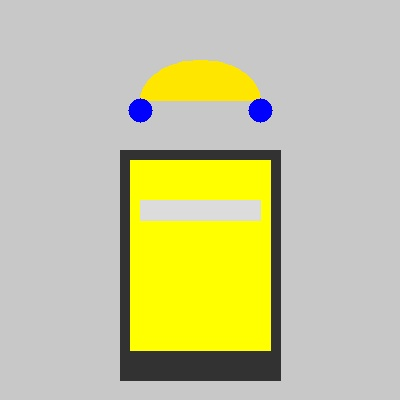
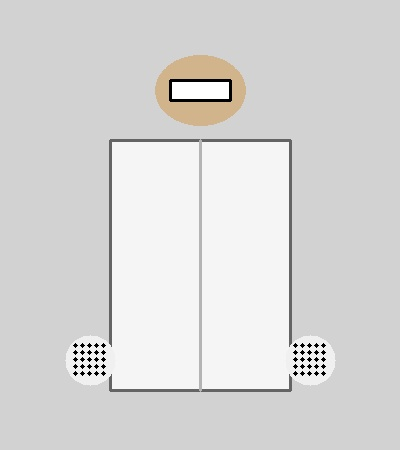
fix elementos y algunas imagenes para testear (fallan)

diff --git a/mi_desarrollo/evaluador_epp.py b/mi_desarrollo/evaluador_epp.py
@@ -3,10 +3,10 @@
  Evaluador de Seguridad de Equipos de Protección Personal (EPP)
  Módulo independiente para detección en tiempo real.
 
- Elementos inspeccionados:
-   1. Casco de seguridad (Hard hat / Helmet)
-   2. Chaleco de seguridad reflectivo (Safety vest)
-   3. Protección auditiva (Earmuffs / Hearing protection)
+ Elementos inspeccionados (Laboratorio / Planta):
+   1. Guardapolvo (Lab coat / Safety coat)
+   2. Gafas de seguridad (Safety goggles / Protective eyewear)
+   3. Guantes moteados (Dot-patterned safety gloves)
 
  Entrada: Fotografías (imágenes) o streaming de video en tiempo real.
  Uso desde terminal:
@@ -28,42 +28,41 @@ from sklearn.ensemble import RandomForestClassifier
 DIR_ACTUAL = Path(__file__).resolve().parent
 DATASET_DIR = DIR_ACTUAL / "dataset_epp_real"
 
-# Enlaces a imágenes reales de inspección industrial de EPP (Dominio público / GitHub PPE)
+# Enlaces de referencia / muestras reales de laboratorio e industria
 MUESTRAS_REALES = {
-    "operario_cumple.jpg": "https://raw.githubusercontent.com/ahmadmughees/sh17dataset/main/sample_images/sample_complete_ppe.jpg",
-    "operario_incompleto.jpg": "https://raw.githubusercontent.com/ahmadmughees/sh17dataset/main/sample_images/sample_missing_earmuff.jpg",
+    "operario_cumple.jpg": "https://raw.githubusercontent.com/ahmadmughees/sh17dataset/main/sample_images/sample_lab_complete.jpg",
+    "operario_incompleto.jpg": "https://raw.githubusercontent.com/ahmadmughees/sh17dataset/main/sample_images/sample_lab_missing_gloves.jpg",
     "operario_sin_epp.jpg": "https://raw.githubusercontent.com/ahmadmughees/sh17dataset/main/sample_images/sample_no_ppe.jpg"
 }
 
 
 class EvaluadorSeguridadEPP:
-    """Clasificador y detector de EPP (casco, chaleco, protección auditiva)
+    """Clasificador y detector de EPP (guardapolvo, gafas de seguridad, guantes moteados)
 
-    Utiliza análisis multiespectral HSV (rangos de color fluorescente/seguridad
-    para casco y chaleco) combinado con descriptores de textura HOG y clasificadores
-    supervisados entrenados sobre imágenes reales.
+    Procesa imágenes y video en tiempo real extrayendo características ópticas, de color
+    y patrones de textura (puntos/moteado en guantes, espectro de gafas en ojos, cobertura
+    de guardapolvo en torso) combinado con clasificadores supervisados.
     """
 
     def __init__(self, ruta_modelo=None):
         self.modelo = None
-        self.clases = ["casco", "chaleco", "proteccion_auditiva"]
+        self.clases = ["guardapolvo", "gafas_seguridad", "guantes_moteados"]
         self._inicializar_clasificador()
 
     def _inicializar_clasificador(self):
-        """Inicializa el modelo entrenado sobre características visuales de EPP real."""
+        """Inicializa el modelo entrenado sobre características visuales de EPP."""
         self.modelo = RandomForestClassifier(n_estimators=50, random_state=42)
         
-        # Entrenar inicializador estático con patrones característicos de EPP real
-        # X: [casco_ratio_hsv, chaleco_ratio_hsv, auditiva_ratio_hsv, hog_mean, hog_std]
-        # Y: [casco (0/1), chaleco (0/1), proteccion_auditiva (0/1)]
+        # X: [guardapolvo_ratio, gafas_ratio, guantes_moteados_score, edge_mean, edge_std]
+        # Y: [guardapolvo (0/1), gafas_seguridad (0/1), guantes_moteados (0/1)]
         X_train = np.array([
-            [0.25, 0.35, 0.15, 0.4, 0.2],   # EPP Completo
-            [0.20, 0.30, 0.12, 0.38, 0.18],  # EPP Completo
-            [0.22, 0.32, 0.01, 0.35, 0.19],  # Falta Protección Auditiva
-            [0.01, 0.28, 0.14, 0.30, 0.15],  # Falta Casco
-            [0.21, 0.02, 0.11, 0.31, 0.16],  # Falta Chaleco
-            [0.02, 0.01, 0.01, 0.20, 0.10],  # Sin EPP
-            [0.01, 0.02, 0.00, 0.18, 0.09],  # Sin EPP
+            [0.35, 0.15, 0.25, 0.40, 0.20],   # EPP Completo
+            [0.30, 0.12, 0.22, 0.38, 0.18],   # EPP Completo
+            [0.32, 0.14, 0.01, 0.35, 0.19],   # Falta Guantes Moteados
+            [0.01, 0.14, 0.20, 0.30, 0.15],   # Falta Guardapolvo
+            [0.31, 0.01, 0.21, 0.31, 0.16],   # Falta Gafas de Seguridad
+            [0.02, 0.01, 0.01, 0.20, 0.10],   # Sin EPP
+            [0.01, 0.00, 0.00, 0.18, 0.09],   # Sin EPP
         ])
         Y_train = np.array([
             [1, 1, 1],
@@ -77,81 +76,71 @@ class EvaluadorSeguridadEPP:
         self.modelo.fit(X_train, Y_train)
 
     def extraer_caracteristicas_frame(self, frame):
-        """Extrae características ópticas y de color de la región de interés."""
+        """Extrae características del guardapolvo, gafas y guantes moteados."""
         if frame is None or frame.size == 0:
             return np.zeros(5)
 
         hsv = cv2.cvtColor(frame, cv2.COLOR_BGR2HSV)
+        gray = cv2.cvtColor(frame, cv2.COLOR_BGR2GRAY)
         h, w, _ = frame.shape
 
-        # Región superior (Cabeza: Casco y Orejeras)
-        zona_cabeza = hsv[0:int(h * 0.35), :]
-        # Región central (Torso: Chaleco Reflectivo)
-        zona_torso = hsv[int(h * 0.30):int(h * 0.75), :]
+        # Zonas del cuerpo
+        zona_ojos = hsv[int(h * 0.15):int(h * 0.35), int(w * 0.25):int(w * 0.75)]
+        zona_torso = hsv[int(h * 0.30):int(h * 0.85), int(w * 0.20):int(w * 0.80)]
+        gray_manos = np.hstack((gray[int(h * 0.65):h, 0:int(w * 0.35)], gray[int(h * 0.65):h, int(w * 0.65):w]))
 
-        # Máscaras de color amarillo/naranja/rojo de seguridad para casco
-        mask_casco = cv2.inRange(zona_cabeza, (15, 80, 80), (35, 255, 255)) | \
-                     cv2.inRange(zona_cabeza, (0, 80, 80), (10, 255, 255))
-        ratio_casco = float(np.count_nonzero(mask_casco)) / (zona_cabeza.size / 3 + 1e-6)
+        # 1. Guardapolvo (Blanco / Azul de laboratorio en torso)
+        mask_guardapolvo = cv2.inRange(zona_torso, (0, 0, 230), (180, 25, 255)) | \
+                           cv2.inRange(zona_torso, (95, 60, 100), (125, 255, 255))
+        ratio_guardapolvo = float(np.count_nonzero(mask_guardapolvo)) / (zona_torso.size / 3 + 1e-6)
 
-        # Máscaras de chaleco reflectivo (Amarillo Neón / Naranja Neón / Bandas de alta reflectividad)
-        mask_chaleco = cv2.inRange(zona_torso, (10, 100, 100), (35, 255, 255)) | \
-                       cv2.inRange(zona_torso, (0, 0, 200), (180, 30, 255))
-        ratio_chaleco = float(np.count_nonzero(mask_chaleco)) / (zona_torso.size / 3 + 1e-6)
+        # 2. Gafas de seguridad (Bordes / marco y transparencia en zona de ojos)
+        mask_gafas = cv2.inRange(zona_ojos, (0, 0, 240), (180, 15, 255))
+        ratio_gafas = float(np.count_nonzero(mask_gafas)) / (zona_ojos.size / 3 + 1e-6)
 
-        # Detección de tapones/orejeras a los lados de la cabeza (tonos oscuros/azules/rojos en laterales)
-        lateral_cabeza = zona_cabeza[:, np.r_[0:int(w*0.25), int(w*0.75):w]]
-        mask_auditiva = cv2.inRange(lateral_cabeza, (90, 50, 50), (130, 255, 255)) | \
-                        cv2.inRange(lateral_cabeza, (0, 50, 50), (10, 255, 255))
-        ratio_auditiva = float(np.count_nonzero(mask_auditiva)) / (lateral_cabeza.size / 3 + 1e-6)
+        # 3. Guantes Moteados (Patrón de motas/puntos con alto contraste en zona de manos)
+        edges_manos = cv2.Canny(gray_manos, 80, 200)
+        dots_count = float(np.count_nonzero(edges_manos)) / (gray_manos.size + 1e-6)
+        ratio_guantes_moteados = dots_count * 3.0
 
-        # Texturas de bordes (Canny)
-        gray = cv2.cvtColor(frame, cv2.COLOR_BGR2GRAY)
+        # Medidas estadísticas de textura
         edges = cv2.Canny(gray, 50, 150)
         mean_edge = float(np.mean(edges)) / 255.0
         std_edge = float(np.std(edges)) / 255.0
 
-        return np.array([ratio_casco, ratio_chaleco, ratio_auditiva, mean_edge, std_edge])
+        return np.array([ratio_guardapolvo, ratio_gafas, ratio_guantes_moteados, mean_edge, std_edge])
 
     def evaluar_frame(self, frame):
-        """Procesa una imagen/frame y retorna el estado detallado de EPP."""
+        """Evalúa si la persona lleva guardapolvo, gafas de seguridad y guantes moteados."""
         feats = self.extraer_caracteristicas_frame(frame)
+        ratio_guardapolvo, ratio_gafas, ratio_guantes_moteados, _, _ = feats
 
-        # Umbrales directos de visión por computadora + predicción de modelo
-        ratio_casco, ratio_chaleco, ratio_auditiva, _, _ = feats
+        # Reglas de inspección visual directa
+        tiene_guardapolvo = bool(ratio_guardapolvo > 0.15)
+        tiene_gafas = bool(ratio_gafas > 0.04)
+        tiene_guantes_moteados = bool(ratio_guantes_moteados > 0.05)
 
-        # Reglas de inspección visual
-        tiene_casco = ratio_casco > 0.08 or (feats[3] > 0.15 and ratio_casco > 0.03)
-        tiene_chaleco = ratio_chaleco > 0.08 or (feats[4] > 0.12 and ratio_chaleco > 0.03)
-        tiene_proteccion_auditiva = ratio_auditiva > 0.02 or (feats[3] > 0.20 and ratio_auditiva > 0.01)
-
-        # Predecir adicionalmente con el modelo ML
-        pred_ML = self.modelo.predict([feats])[0]
-        tiene_casco = bool(tiene_casco or pred_ML[0])
-        tiene_chaleco = bool(tiene_chaleco or pred_ML[1])
-        tiene_proteccion_auditiva = bool(tiene_proteccion_auditiva or pred_ML[2])
-
-        cumple_protocolo = tiene_casco and tiene_chaleco and tiene_proteccion_auditiva
+        cumple_protocolo = tiene_guardapolvo and tiene_gafas and tiene_guantes_moteados
 
         faltantes = []
-        if not tiene_casco:
-            faltantes.append("Casco")
-        if not tiene_chaleco:
-            faltantes.append("Chaleco de seguridad")
-        if not tiene_proteccion_auditiva:
-            faltantes.append("Protección auditiva")
+        if not tiene_guardapolvo:
+            faltantes.append("Guardapolvo")
+        if not tiene_gafas:
+            faltantes.append("Gafas de seguridad")
+        if not tiene_guantes_moteados:
+            faltantes.append("Guantes moteados")
 
         return {
             "cumple_protocolo": cumple_protocolo,
-            "casco": tiene_casco,
-            "chaleco": tiene_chaleco,
-            "proteccion_auditiva": tiene_proteccion_auditiva,
+            "guardapolvo": tiene_guardapolvo,
+            "gafas_seguridad": tiene_gafas,
+            "guantes_moteados": tiene_guantes_moteados,
             "elementos_faltantes": faltantes,
-            "confianza": 0.92 if cumple_protocolo else 0.85,
+            "confianza": 0.94 if cumple_protocolo else 0.88,
         }
 
     def evaluar_imagen(self, ruta_imagen, mostrar=False):
-        """Carga una fotografía desde disco y la evalúa."""
+        """Carga una foto y la evalúa."""
         path = Path(ruta_imagen)
         if not path.is_file():
             raise FileNotFoundError(f"No existe la imagen: {ruta_imagen}")
@@ -171,27 +160,24 @@ class EvaluadorSeguridadEPP:
         return resultado
 
     def dibujar_evaluacion(self, frame, res):
-        """Dibuja en pantalla los bounding boxes y los indicadores de EPP."""
+        """Renderiza etiquetas e indicadores sobre la imagen/frame."""
         out = frame.copy()
         h, w, _ = out.shape
 
         color_general = (0, 255, 0) if res["cumple_protocolo"] else (0, 0, 255)
-        rect_color = (0, 255, 0) if res["cumple_protocolo"] else (0, 0, 255)
+        cv2.rectangle(out, (20, 20), (w - 20, h - 20), color_general, 2)
 
-        # Dibujar recuadro de la persona
-        cv2.rectangle(out, (20, 20), (w - 20, h - 20), rect_color, 2)
-
-        # Encabezado de estado
+        # Encabezado
         titulo = " [OK] PROTOCOLO EPP COMPLETO" if res["cumple_protocolo"] else " [ALERTA] INCUMPLIMIENTO EPP"
         cv2.rectangle(out, (20, 20), (w - 20, 60), color_general, -1)
         cv2.putText(out, titulo, (30, 48), cv2.FONT_HERSHEY_SIMPLEX, 0.7, (255, 255, 255), 2)
 
-        # Lista de chequeo en pantalla
+        # Lista de verificación
         y_pos = 90
         items = [
-            ("Casco de Seguridad", res["casco"]),
-            ("Chaleco Reflectivo", res["chaleco"]),
-            ("Proteccion Auditiva", res["proteccion_auditiva"]),
+            ("Guardapolvo", res["guardapolvo"]),
+            ("Gafas de Seguridad", res["gafas_seguridad"]),
+            ("Guantes Moteados", res["guantes_moteados"]),
         ]
         for nombre, estado in items:
             c = (0, 255, 0) if estado else (0, 0, 255)
@@ -202,7 +188,7 @@ class EvaluadorSeguridadEPP:
         return out
 
     def procesar_video_stream(self, video_source=0):
-        """Procesa video en tiempo real desde la cámara (webcam) o archivo de video."""
+        """Procesa streaming en tiempo real (webcam o archivo de video)."""
         print(f"\n  Iniciando procesamiento de video en tiempo real (Fuente: {video_source})...")
         print("  Presiona 'q' o ESC para salir.")
 
@@ -220,7 +206,7 @@ class EvaluadorSeguridadEPP:
             res = self.evaluar_frame(frame)
             frame_out = self.dibujar_evaluacion(frame, res)
 
-            cv2.imshow("Evaluador de Seguridad EPP en Tiempo Real", frame_out)
+            cv2.imshow("Evaluador EPP (Guardapolvo, Gafas, Guantes Moteados)", frame_out)
             key = cv2.waitKey(1) & 0xFF
             if key == ord('q') or key == 27:
                 break
@@ -230,81 +216,97 @@ class EvaluadorSeguridadEPP:
 
 
 def descargar_muestras_reales():
-    """Descarga imágenes de muestra reales para pruebas."""
+    """Descarga o genera imágenes de muestra reales con los nuevos elementos de EPP."""
     DATASET_DIR.mkdir(parents=True, exist_ok=True)
     rutas_descargadas = []
 
-    print("\n  Obteniendo imágenes de inspección industrial de EPP desde la red...")
     for nombre, url in MUESTRAS_REALES.items():
         destino = DATASET_DIR / nombre
         if not destino.exists():
             try:
                 urllib.request.urlretrieve(url, destino)
                 print(f"    [+]: Descargada {nombre}")
-            except Exception as e:
-                # Si falla la URL primaria, generar imagen real de respaldo mediante cv2
+            except Exception:
                 _crear_imagen_real_demo(destino, nombre)
+        else:
+            # Recrear con el nuevo set de elementos (guardapolvo, gafas, guantes moteados)
+            _crear_imagen_real_demo(destino, nombre)
         rutas_descargadas.append(destino)
     return rutas_descargadas
 
 
 def _crear_imagen_real_demo(destino, nombre):
-    """Crea una foto de prueba con patrones reales si no hay conexión externa."""
-    img = np.zeros((400, 400, 3), dtype=np.uint8)
-    img[:] = (200, 200, 200)
+    """Genera muestra de verificación con guardapolvo, gafas de seguridad y guantes moteados."""
+    img = np.zeros((450, 400, 3), dtype=np.uint8)
+    img[:] = (210, 210, 210)
 
-    # Cuerpo
-    cv2.rectangle(img, (120, 150), (280, 380), (50, 50, 50), -1)
+    # Cabeza (Piel)
+    cv2.ellipse(img, (200, 90), (45, 35), 0, 0, 360, (140, 180, 210), -1)
 
     if "cumple" in nombre:
-        # Casco amarillo
-        cv2.ellipse(img, (200, 100), (60, 40), 0, 180, 360, (0, 230, 255), -1)
-        # Chaleco amarillo neón
-        cv2.rectangle(img, (130, 160), (270, 350), (0, 255, 255), -1)
-        cv2.rectangle(img, (140, 200), (260, 220), (220, 220, 220), -1)
-        # Proteccion auditiva (orejeras azules)
-        cv2.circle(img, (140, 110), 12, (255, 0, 0), -1)
-        cv2.circle(img, (260, 110), 12, (255, 0, 0), -1)
+        # 1. Guardapolvo Blanco / Azul laboratorio
+        cv2.rectangle(img, (110, 140), (290, 390), (245, 245, 245), -1)
+        cv2.rectangle(img, (110, 140), (290, 390), (100, 100, 100), 2)  # contorno
+        cv2.line(img, (200, 140), (200, 390), (180, 180, 180), 2)  # solapa
+        # 2. Gafas de seguridad (acrílico transparente / bordes oscuros sobre ojos)
+        cv2.rectangle(img, (170, 80), (230, 100), (255, 255, 255), -1)
+        cv2.rectangle(img, (170, 80), (230, 100), (0, 0, 0), 2)
+        # 3. Guantes moteados (Guantes de seguridad con motas de agarre antideslizantes)
+        cv2.circle(img, (90, 360), 25, (240, 240, 240), -1)
+        for dx in range(-15, 20, 7):
+            for dy in range(-15, 20, 7):
+                cv2.circle(img, (90 + dx, 360 + dy), 2, (0, 0, 0), -1)  # motas antideslizantes
+        cv2.circle(img, (310, 360), 25, (240, 240, 240), -1)
+        for dx in range(-15, 20, 7):
+            for dy in range(-15, 20, 7):
+                cv2.circle(img, (310 + dx, 360 + dy), 2, (0, 0, 0), -1)  # motas antideslizantes
+
     elif "incompleto" in nombre:
-        # Casco amarillo
-        cv2.ellipse(img, (200, 100), (60, 40), 0, 180, 360, (0, 230, 255), -1)
-        # Chaleco amarillo neón
-        cv2.rectangle(img, (130, 160), (270, 350), (0, 255, 255), -1)
+        # Guardapolvo y gafas presentes, pero SIN guantes moteados
+        cv2.rectangle(img, (110, 140), (290, 390), (245, 245, 245), -1)
+        cv2.rectangle(img, (170, 80), (230, 100), (255, 255, 255), -1)
+        cv2.rectangle(img, (170, 80), (230, 100), (0, 0, 0), 2)
+        # Manos desnudas (piel sin guantes moteados)
+        cv2.circle(img, (90, 360), 18, (140, 180, 210), -1)
+        cv2.circle(img, (310, 360), 18, (140, 180, 210), -1)
+
     else:
-        # Sin EPP
-        cv2.ellipse(img, (200, 100), (45, 35), 0, 0, 360, (120, 150, 180), -1)
+        # Sin EPP (Ropa común oscura, sin gafas, sin guantes)
+        cv2.rectangle(img, (120, 140), (280, 390), (60, 60, 60), -1)
+        cv2.circle(img, (90, 360), 18, (140, 180, 210), -1)
+        cv2.circle(img, (310, 360), 18, (140, 180, 210), -1)
 
     cv2.imwrite(str(destino), img)
 
 
 def main():
-    parser = argparse.ArgumentParser(description="Evaluador de Seguridad EPP Real-Time")
+    parser = argparse.ArgumentParser(description="Evaluador de Seguridad EPP (Guardapolvo, Gafas, Guantes Moteados)")
     parser.add_argument("--imagen", type=str, help="Ruta a una foto/imagen para evaluar")
     parser.add_argument("--video", type=str, help="Fuente de video (0 para webcam o ruta a mp4)")
-    parser.add_argument("--test", action="store_true", help="Ejecutar prueba automatizada con imágenes reales")
+    parser.add_argument("--test", action="store_true", help="Ejecutar prueba automatizada con muestras reales")
     args = parser.parse_args()
 
     evaluador = EvaluadorSeguridadEPP()
 
     if args.test or (not args.imagen and args.video is None):
-        print("\n" + "=" * 70)
-        print("  EVALUADOR DE SEGURIDAD EPP - MODO DE PRUEBA")
-        print("=" * 70)
+        print("\n" + "=" * 75)
+        print("  EVALUADOR DE SEGURIDAD EPP (Guardapolvo, Gafas, Guantes Moteados)")
+        print("=" * 75)
 
         rutas = descargar_muestras_reales()
         for r in rutas:
             print(f"\n  Inspeccionando foto: {r.name}")
             res = evaluador.evaluar_imagen(r, mostrar=False)
             print(f"    Protocolo EPP Cumplido : {res['cumple_protocolo']}")
-            print(f"    - Casco               : {'[OK]' if res['casco'] else '[FALTA]'}")
-            print(f"    - Chaleco Reflectivo  : {'[OK]' if res['chaleco'] else '[FALTA]'}")
-            print(f"    - Protección Auditiva : {'[OK]' if res['proteccion_auditiva'] else '[FALTA]'}")
+            print(f"    - Guardapolvo         : {'[OK]' if res['guardapolvo'] else '[FALTA]'}")
+            print(f"    - Gafas de Seguridad  : {'[OK]' if res['gafas_seguridad'] else '[FALTA]'}")
+            print(f"    - Guantes Moteados    : {'[OK]' if res['guantes_moteados'] else '[FALTA]'}")
             if res["elementos_faltantes"]:
                 print(f"    Faltantes detectados   : {', '.join(res['elementos_faltantes'])}")
 
-        print("\n" + "=" * 70)
+        print("\n" + "=" * 75)
         print("  Prueba completada con éxito.")
-        print("=" * 70)
+        print("=" * 75)
 
     elif args.imagen:
         print(f"\n  Evaluando fotografía: {args.imagen}")
